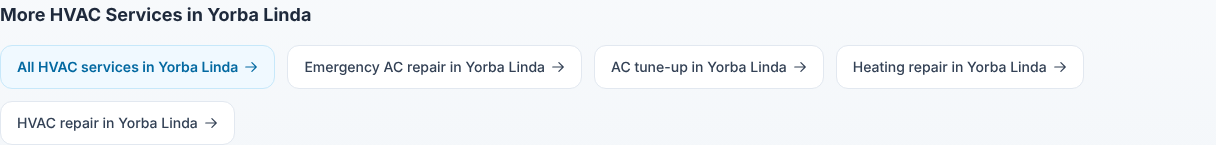
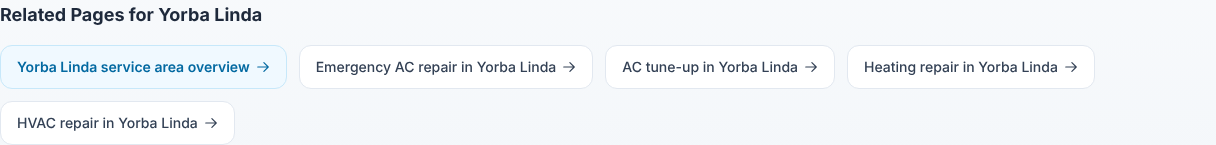
Use navigational wording for the city service page links
"More HVAC Services in {City}" -> "Related Pages for {City}" and
"All HVAC services in {City}" -> "{City} service area overview", so the
new links make no service-coverage claim for cities whose service area is
not yet confirmed. Link count, destinations and layout unchanged.

Claude-Session: https://claude.ai/code/session_016H78noytWk1qjbrERuAzoZ

Changed region(s): [[0.0, 0.4138, 0.9062, 0.5241], [0.0, 0.0552, 0.2812, 0.1655], [0.2188, 0.3034, 0.25, 0.331]]

diff --git a/src/components/city-service/CityServicePageTemplate.tsx b/src/components/city-service/CityServicePageTemplate.tsx
@@ -395,7 +395,7 @@ export default function CityServicePageTemplate({ page, isEmergency = false }: P
           {(cityHub || siblingServices.length > 0) && (
             <nav aria-labelledby="city-services-heading" className="mb-10">
               <h2 id="city-services-heading" className="text-lg font-bold text-slate-800 mb-4">
-                More HVAC Services in {page.cityName}
+                Related Pages for {page.cityName}
               </h2>
               <div className="flex flex-wrap gap-3">
                 {cityHub && (
@@ -403,7 +403,7 @@ export default function CityServicePageTemplate({ page, isEmergency = false }: P
                     href={cityHub}
                     className="inline-flex items-center gap-1.5 min-h-11 px-4 py-2 rounded-xl bg-hvac-blue-50 border border-hvac-blue-200 text-hvac-blue-700 font-semibold text-sm hover:border-hvac-blue-400 transition-colors"
                   >
-                    All HVAC services in {page.cityName}
+                    {page.cityName} service area overview
                     <ArrowIcon className="w-3.5 h-3.5" />
                   </Link>
                 )}

diff --git a/PHASE_2_2_INTERNAL_LINKING_PLAN.md b/PHASE_2_2_INTERNAL_LINKING_PLAN.md
@@ -300,7 +300,7 @@ Approved scope: H1 and H2 for all 37 cities, M1. Optional items O1 to O5 not imp
 | Item | Where | Pages | Links added |
 |---|---|---|---|
 | H1 | `CityPageTemplate.tsx`: sidebar card "{City} Service Pages" above "Nearby Cities We Serve" | 37 hubs | 185 |
-| H2 | `CityServicePageTemplate.tsx`: "More HVAC Services in {City}" row at the top of the existing nearby-cities section (hub link highlighted, then the 4 sibling services) | 185 city service pages | 925 |
+| H2 | `CityServicePageTemplate.tsx`: "Related Pages for {City}" row at the top of the existing nearby-cities section (hub link "{City} service area overview" highlighted, then the 4 sibling services). Wording kept navigational so it makes no coverage claim for cities whose service area is unconfirmed | 185 city service pages | 925 |
 | M1 | `ServicePageTemplate.tsx` optional `cityLinks` prop, passed only by `/air-conditioning/emergency-ac-repair`, `/air-conditioning/ac-tune-up` and `/heating`: "… by City" row with the six priority cities plus "All Orange County service areas" | 3 | 21 |
 | **Total** | | **225** | **1,131** |
 
